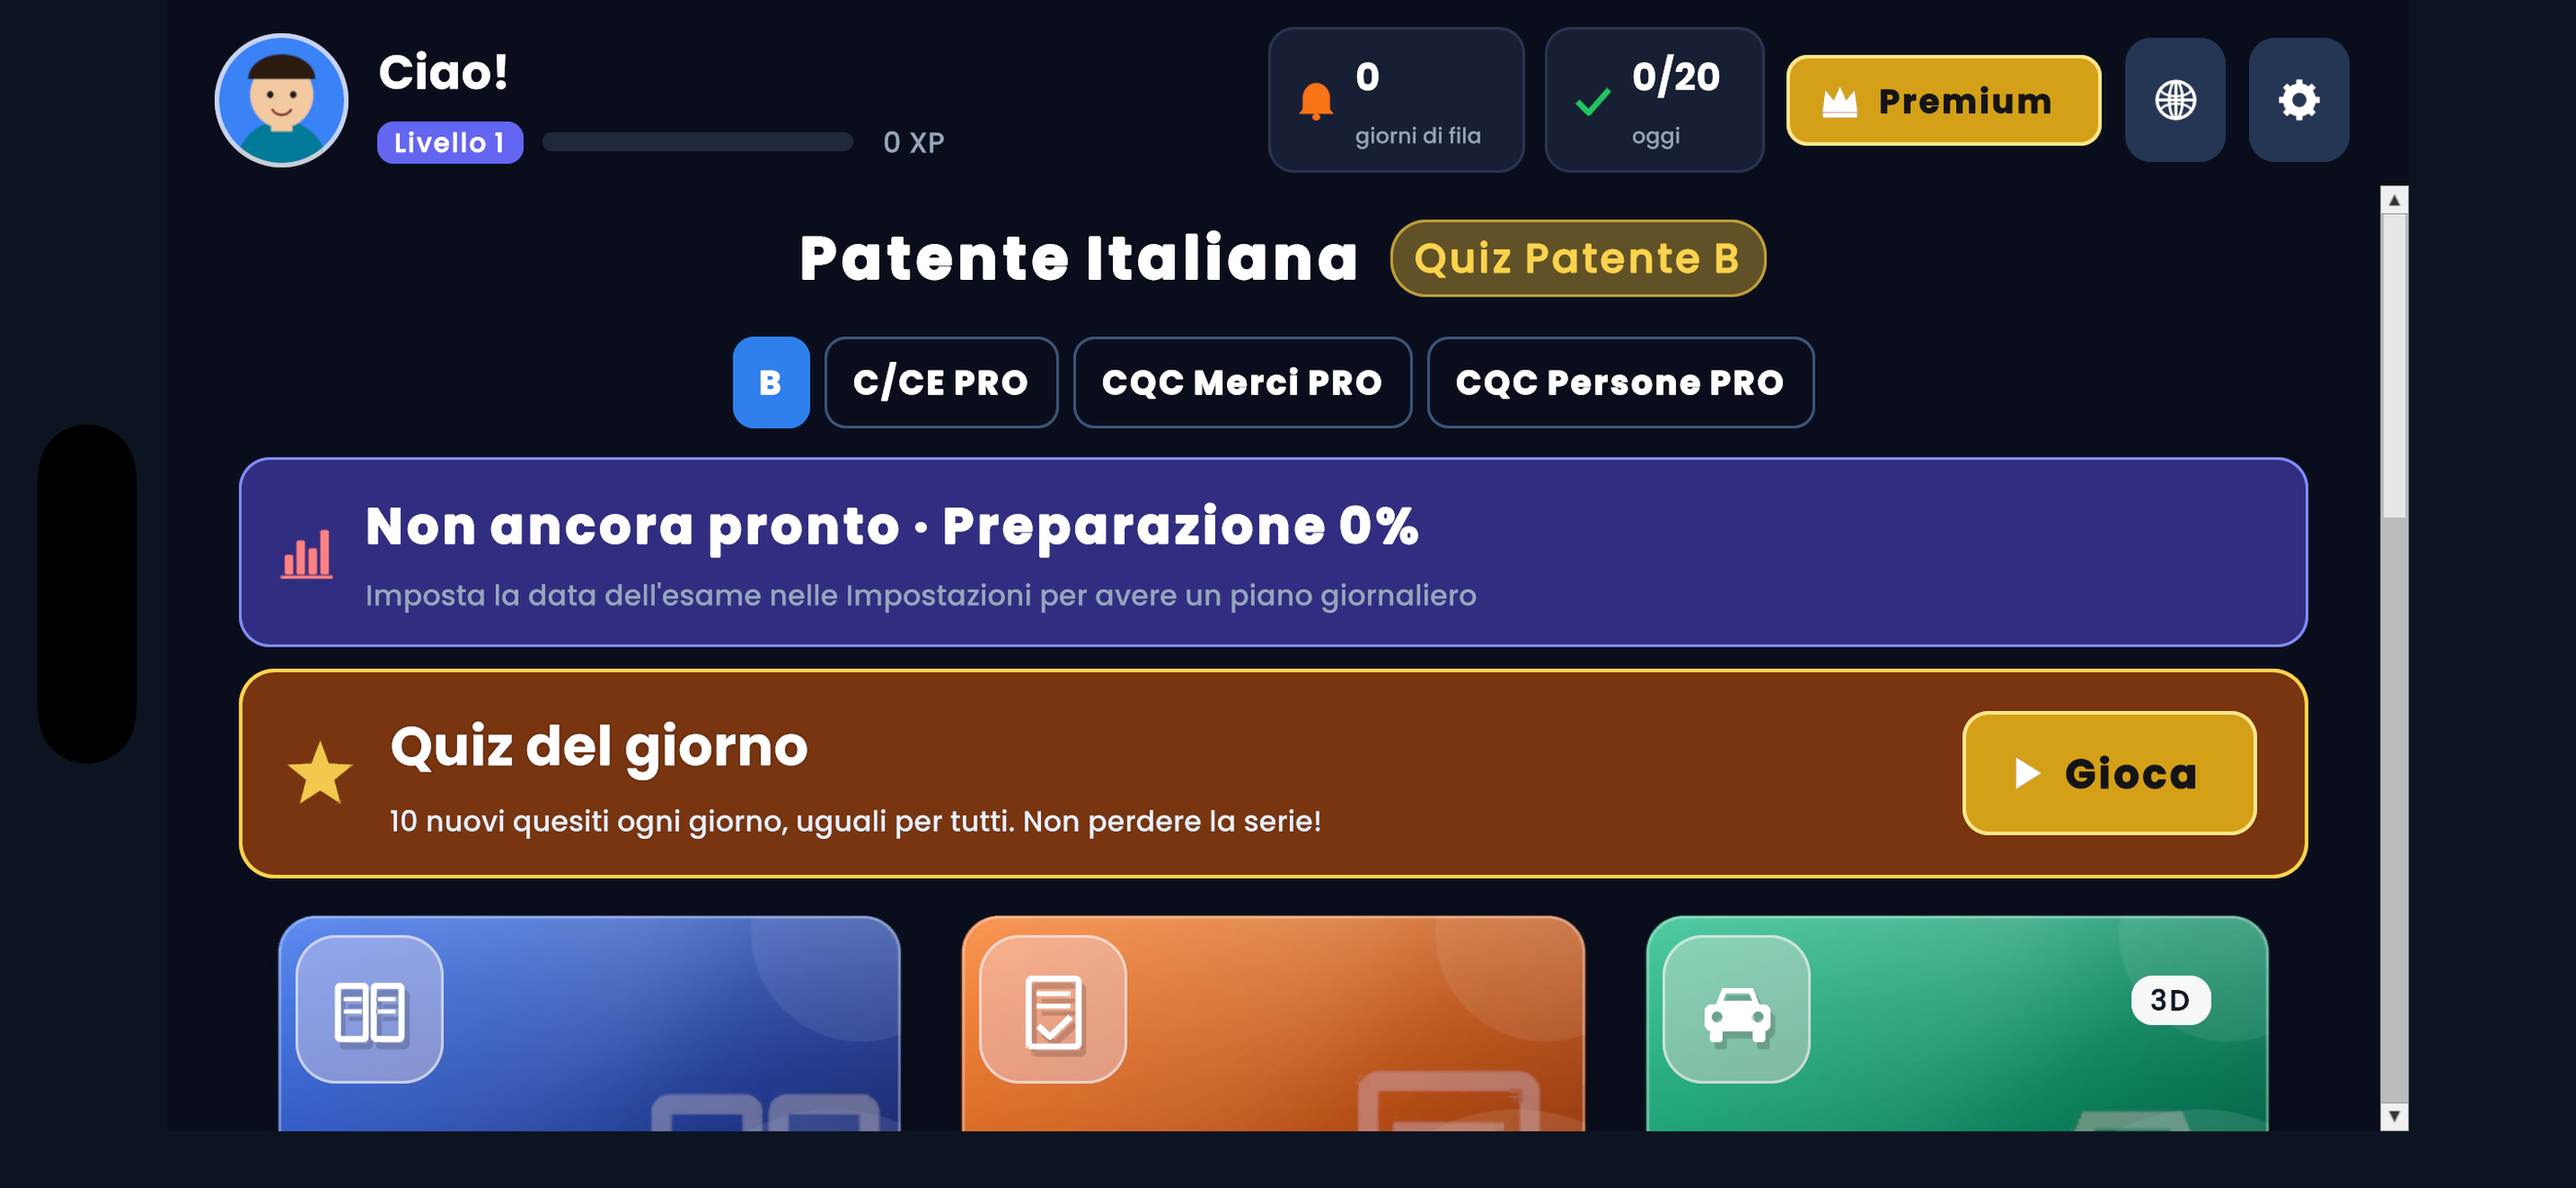
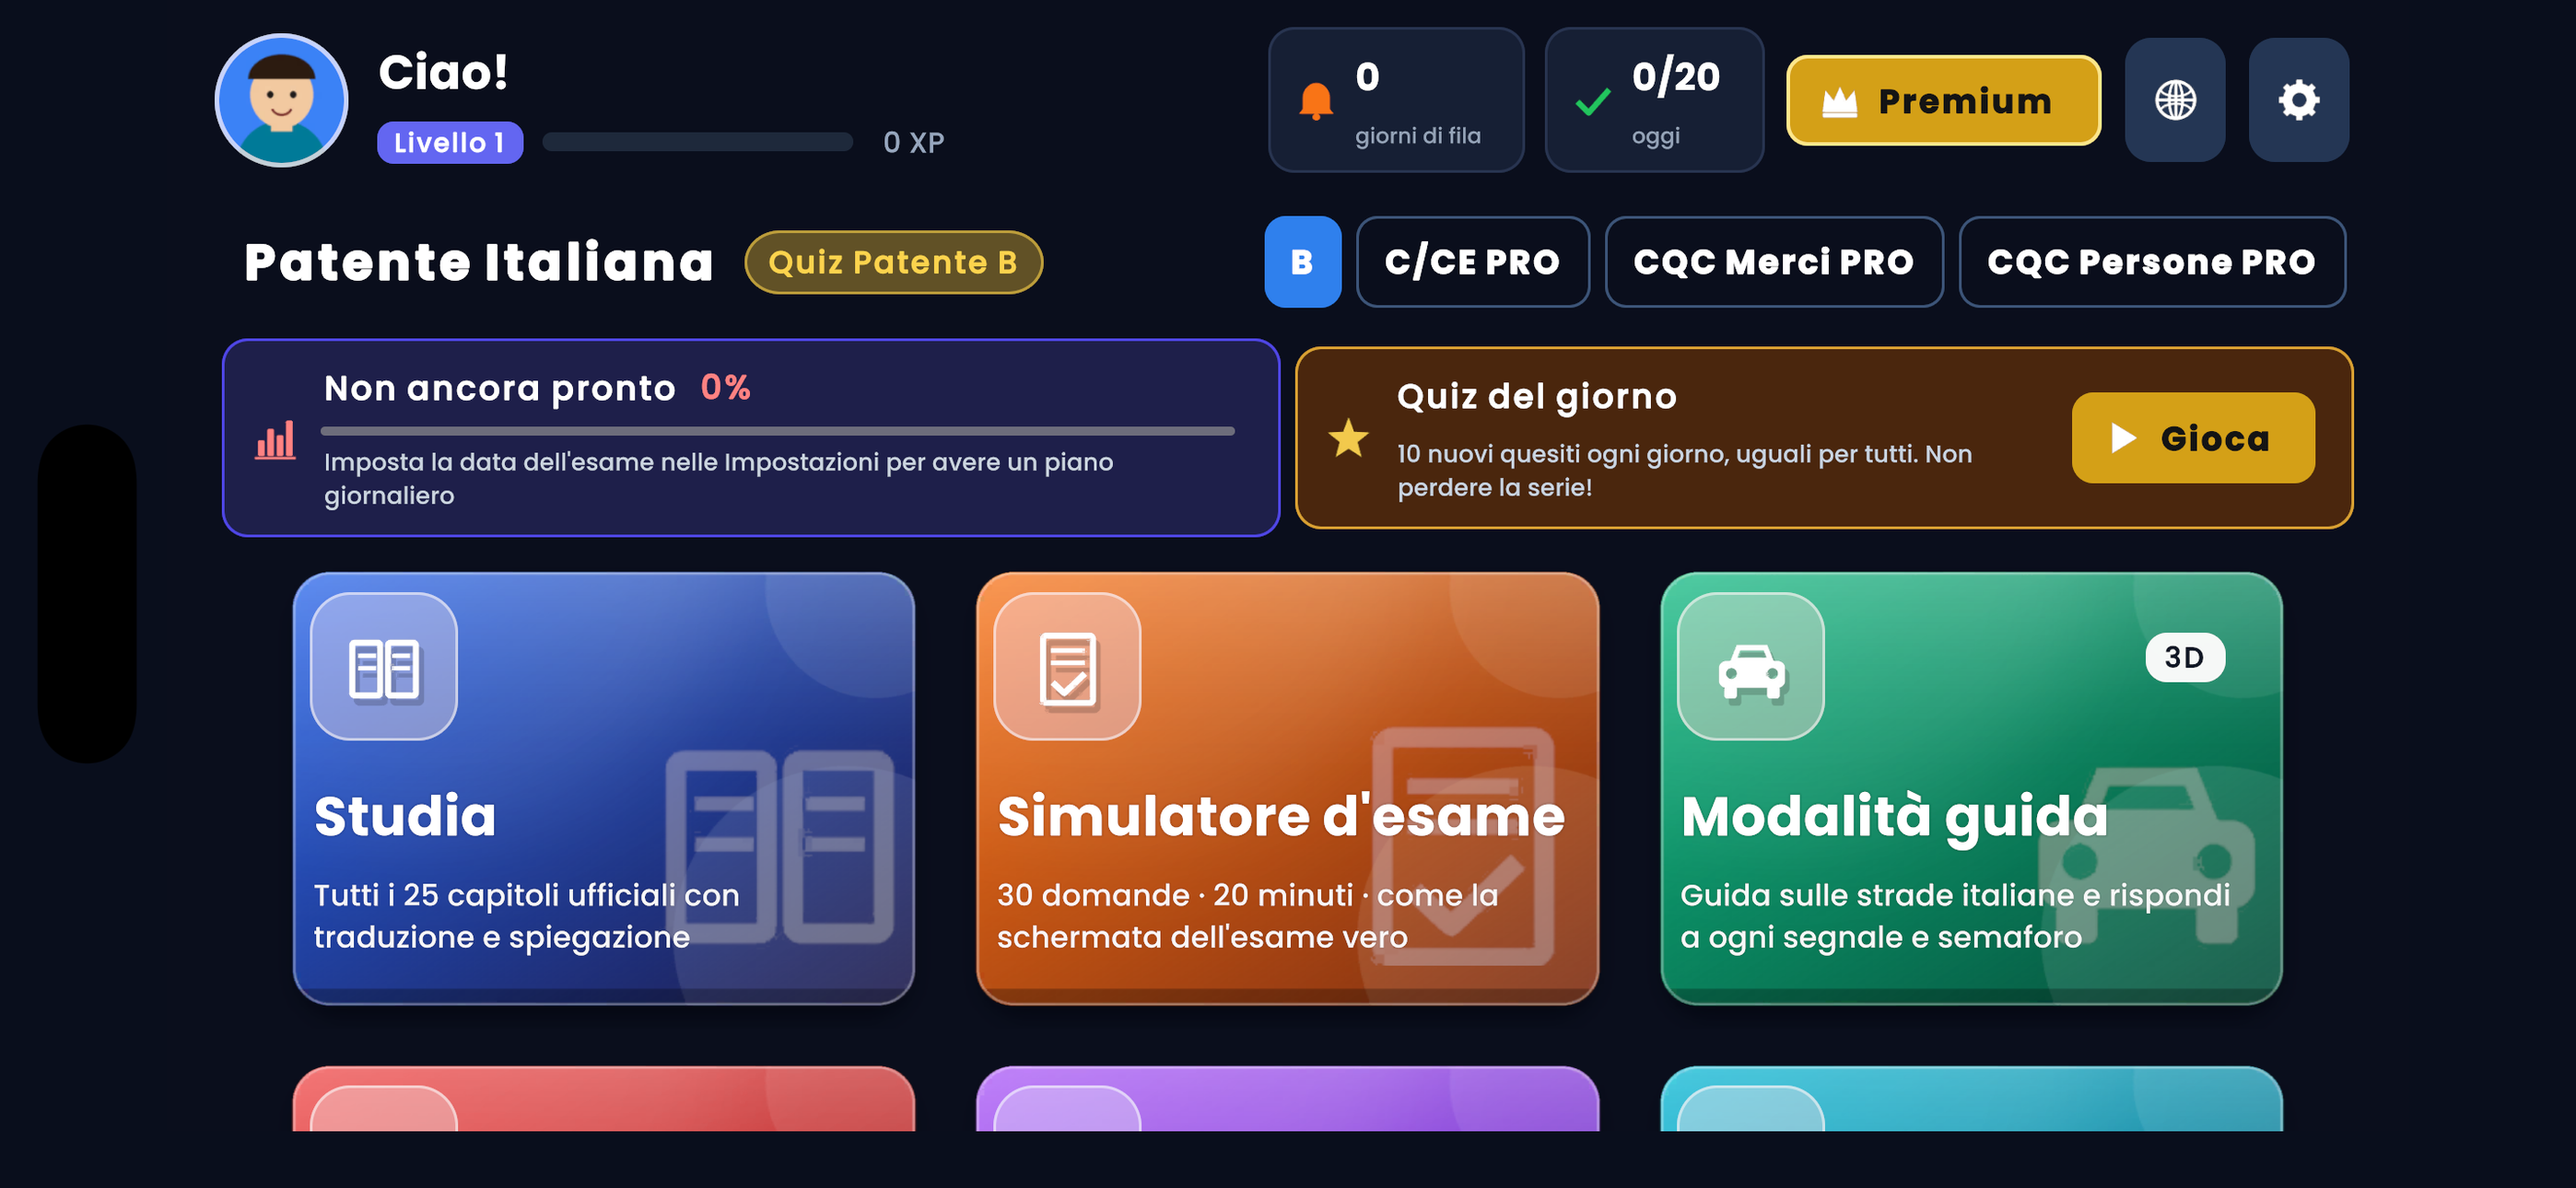
Google Play: target API 36, release workflow (AAB to a track with release notes, real app screenshots, sent for review); new home screenshot
Claude-Session: https://claude.ai/code/session_01NqnJcoZQC71NsqKPgJ98vV

diff --git a/tools/play_release.py b/tools/play_release.py
@@ -1,0 +1,55 @@
+"""Publish a new version on Google Play in one edit:
+- uploads the signed AAB (path in AAB), puts it on TRACK (default production) with release notes in it/en/ar,
+- replaces the phone screenshots of the default listing with real app screenshots (store/play/shots/*.jpg),
+- commits and sends the changes for review (falls back to 'not sent for review' only if Google asks for it).
+"""
+import os, json, glob, sys
+from google.oauth2 import service_account
+from googleapiclient.discovery import build
+from googleapiclient.http import MediaFileUpload
+from googleapiclient.errors import HttpError
+
+pkg = os.environ.get('PACKAGE', 'com.memo.patentemondo')
+track = os.environ.get('TRACK', 'production')
+aab = os.environ['AAB']
+creds = service_account.Credentials.from_service_account_info(json.loads(os.environ['PLAY_JSON']), scopes=['https://www.googleapis.com/auth/androidpublisher'])
+e = build('androidpublisher', 'v3', credentials=creds, cache_discovery=False).edits()
+eid = e.insert(packageName=pkg, body={}).execute()['id']
+details = e.details().get(packageName=pkg, editId=eid).execute()
+default_lang = details.get('defaultLanguage', 'it-IT')
+print('default language', default_lang)
+
+b = e.bundles().upload(packageName=pkg, editId=eid, media_body=MediaFileUpload(aab, mimetype='application/octet-stream', resumable=True)).execute()
+vc = b['versionCode']
+print('bundle uploaded, versionCode', vc)
+
+notes = [
+    {'language': 'it-IT', 'text': "Nuova modalità guida 3D nelle vie di Milano con più situazioni (dossi, curve, strada sdrucciolevole, sorpasso, discesa), home più chiara, acquisti più affidabili con messaggi chiari, profilo con foto e pulsante Salva, correzioni e miglioramenti."},
+    {'language': 'en-US', 'text': "New 3D driving mode in the streets of Milan with more situations (speed bumps, bends, slippery road, overtaking, descents), clearer home screen, more reliable purchases with clear messages, profile photo and Save button, fixes and improvements."},
+    {'language': 'ar', 'text': "وضع سواقة 3D جديد في شوارع ميلانو بمواقف أكتر (مطبات، منحنيات، طريق زلق، تخطي، منحدرات)، صفحة رئيسية أوضح، مشتريات أكثر ثباتًا برسائل واضحة، صورة البروفايل وزرار حفظ، وتصليحات وتحسينات."},
+]
+listed = {l['language'] for l in e.listings().list(packageName=pkg, editId=eid).execute().get('listings', [])}
+notes = [n for n in notes if n['language'] in listed or n['language'] == default_lang] or notes[:1]
+e.tracks().update(packageName=pkg, editId=eid, track=track, body={
+    'track': track,
+    'releases': [{'name': os.environ.get('VERSION_NAME', '1.2.0') + ' (' + str(vc) + ')', 'versionCodes': [str(vc)], 'status': 'completed', 'releaseNotes': notes}]}).execute()
+print('track', track, 'release with', len(notes), 'notes')
+
+shots = sorted(glob.glob('store/play/shots/*.jpg'))
+if shots:
+    e.images().deleteall(packageName=pkg, editId=eid, language=default_lang, imageType='phoneScreenshots').execute()
+    for s in shots:
+        e.images().upload(packageName=pkg, editId=eid, language=default_lang, imageType='phoneScreenshots', media_body=MediaFileUpload(s, mimetype='image/jpeg')).execute()
+    print('screenshots', len(shots), 'for', default_lang)
+
+try:
+    r = e.commit(packageName=pkg, editId=eid).execute()
+    print('COMMITTED AND SENT FOR REVIEW', r.get('id'))
+except HttpError as err:
+    msg = str(err)
+    print('commit:', msg[:600])
+    if 'changesNotSentForReview' in msg:
+        r = e.commit(packageName=pkg, editId=eid, changesNotSentForReview=True).execute()
+        print('COMMITTED, NOT SENT FOR REVIEW (press "Send changes for review" in Play Console)', r.get('id'))
+    else:
+        sys.exit(1)

diff --git a/Assets/PatenteArabo/Editor/PatenteSetup.cs b/Assets/PatenteArabo/Editor/PatenteSetup.cs
@@ -308,7 +308,7 @@ namespace PatenteArabo.EditorTools
                 PlayerSettings.SetScriptingBackend(NamedBuildTarget.Android, ScriptingImplementation.IL2CPP);
                 PlayerSettings.Android.targetArchitectures = AndroidArchitecture.ARM64 | AndroidArchitecture.ARMv7;
                 PlayerSettings.Android.minSdkVersion = AndroidSdkVersions.AndroidApiLevel23;
-                PlayerSettings.Android.targetSdkVersion = (AndroidSdkVersions)35;
+                PlayerSettings.Android.targetSdkVersion = (AndroidSdkVersions)36;   // Google Play: API 36 required for updates from 31 Aug 2026
                 var ks = Arg("-androidKeystoreName");
                 if (!string.IsNullOrEmpty(ks) && File.Exists(ks) && !string.IsNullOrEmpty(Arg("-androidKeystorePass")))
                 {
